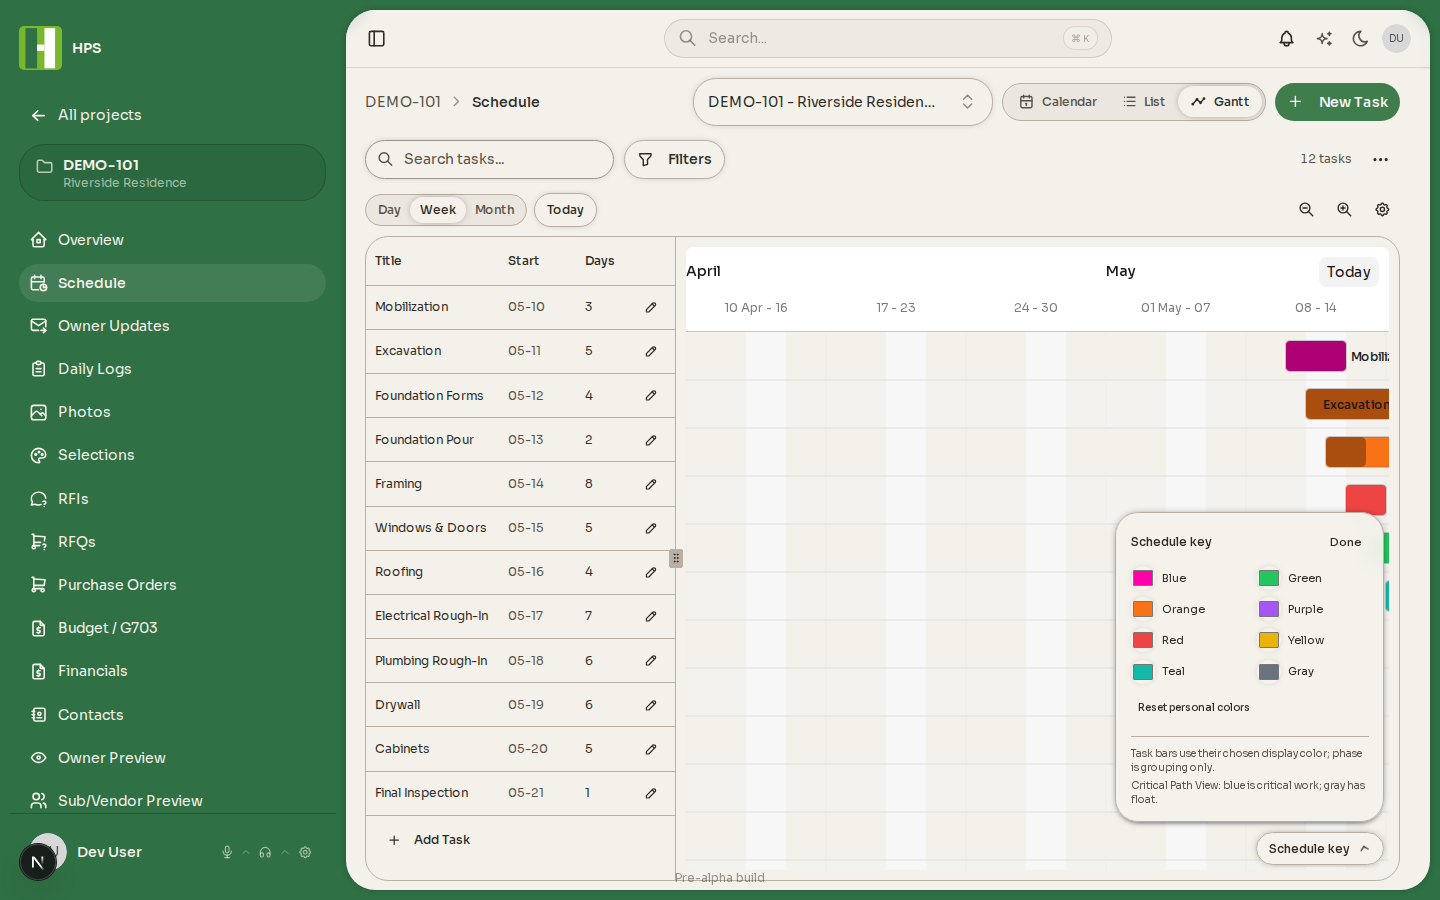
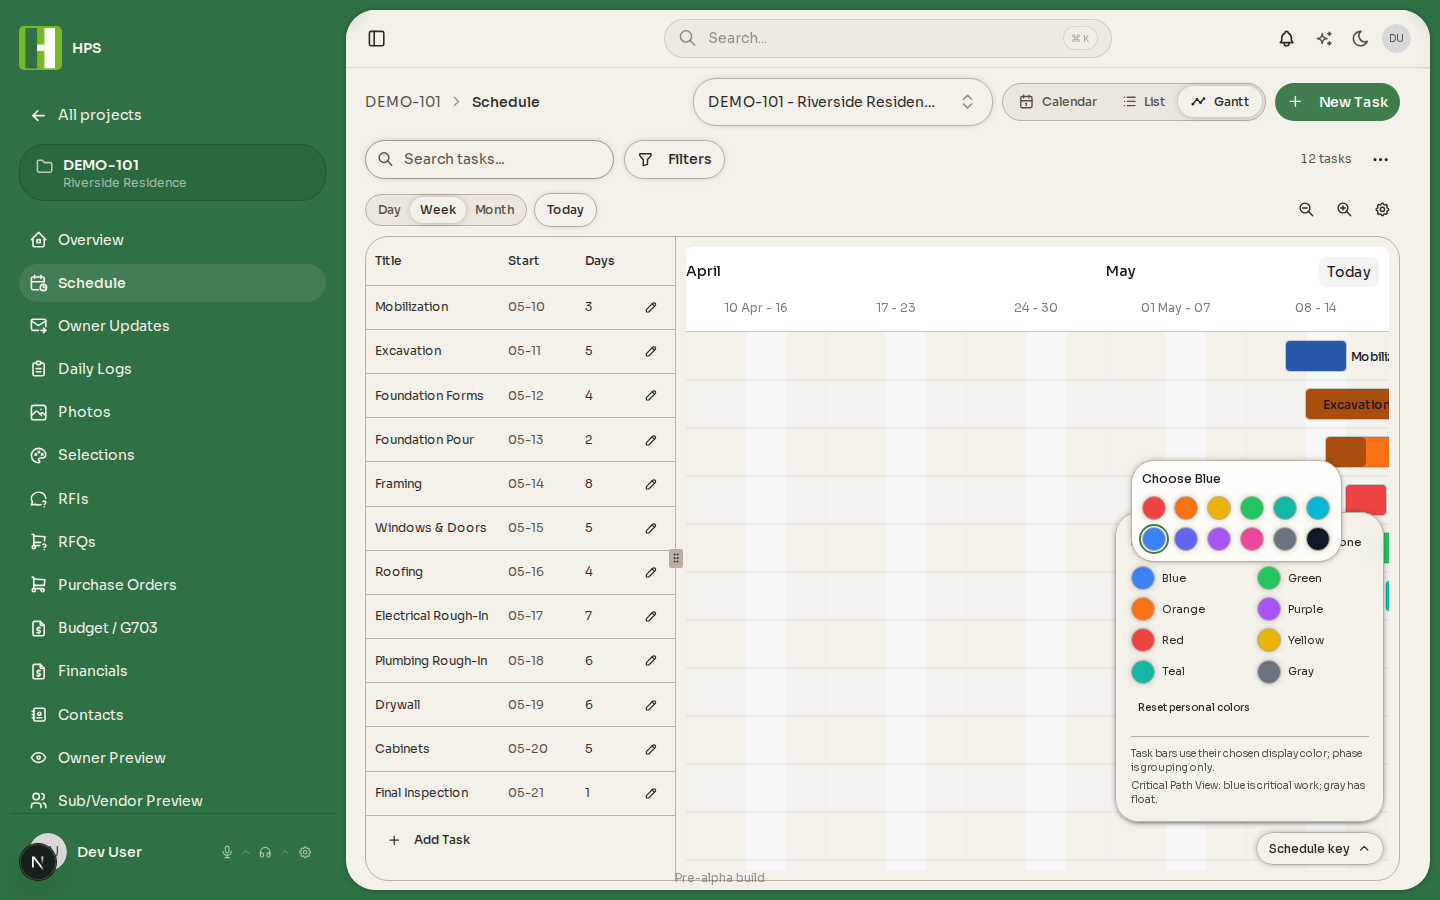
fix(schedule): show visible palette swatches

Changed region(s): [[0.7812, 0.5289, 0.9375, 0.7467], [0.875, 0.3733, 0.9375, 0.4356], [0.875, 0.6844, 0.9062, 0.7467]]

diff --git a/src/components/schedule/schedule-gantt-view.tsx b/src/components/schedule/schedule-gantt-view.tsx
@@ -7,7 +7,11 @@ import {
   ResizablePanelGroup,
 } from "@/components/ui/resizable"
 import { Button } from "@/components/ui/button"
-import { Input } from "@/components/ui/input"
+import {
+  Popover,
+  PopoverContent,
+  PopoverTrigger,
+} from "@/components/ui/popover"
 import { Switch } from "@/components/ui/switch"
 import {
   DropdownMenu,
@@ -66,6 +70,11 @@ import { toast } from "sonner"
 import { format } from "date-fns"
 
 type ViewMode = "Day" | "Week" | "Month"
+
+const COLOR_PICKER_SWATCHES = [
+  "#ef4444", "#f97316", "#eab308", "#22c55e", "#14b8a6", "#06b6d4",
+  "#3b82f6", "#6366f1", "#a855f7", "#ec4899", "#6b7280", "#111827",
+] as const
 
 interface ScheduleGanttViewProps {
   readonly projectId: string
@@ -337,13 +346,34 @@ export function ScheduleGanttView({
                 className="flex items-center gap-1.5 text-[11px] text-foreground"
               >
                 {editingScheduleKey ? (
-                  <Input
-                    aria-label={`${color.label} schedule color`}
-                    type="color"
-                    value={displayColorPalette[color.value]}
-                    onChange={(event) => updatePaletteColor(color.value, event.target.value)}
-                    className="size-5 cursor-pointer border-0 bg-transparent p-0"
-                  />
+                  <Popover>
+                    <PopoverTrigger asChild>
+                      <button
+                        type="button"
+                        aria-label={`Choose ${color.label} schedule color`}
+                        className="size-5 rounded border border-border shadow-sm"
+                        style={{ backgroundColor: displayColorPalette[color.value] }}
+                      />
+                    </PopoverTrigger>
+                    <PopoverContent side="top" align="start" className="w-44 p-2">
+                      <p className="mb-2 text-xs font-medium">Choose {color.label}</p>
+                      <div className="grid grid-cols-6 gap-1.5">
+                        {COLOR_PICKER_SWATCHES.map((swatch) => (
+                          <button
+                            key={swatch}
+                            type="button"
+                            aria-label={`Set ${color.label} to ${swatch}`}
+                            className={cn(
+                              "size-5 rounded border border-border shadow-sm transition-transform hover:scale-110",
+                              displayColorPalette[color.value] === swatch && "ring-2 ring-ring ring-offset-1"
+                            )}
+                            style={{ backgroundColor: swatch }}
+                            onClick={() => updatePaletteColor(color.value, swatch)}
+                          />
+                        ))}
+                      </div>
+                    </PopoverContent>
+                  </Popover>
                 ) : (
                   <span
                     aria-hidden="true"
